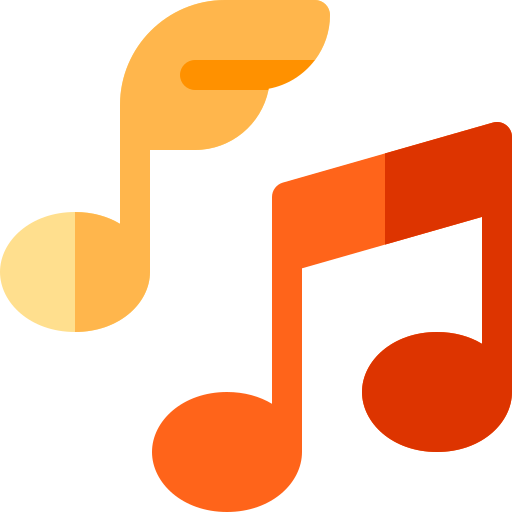
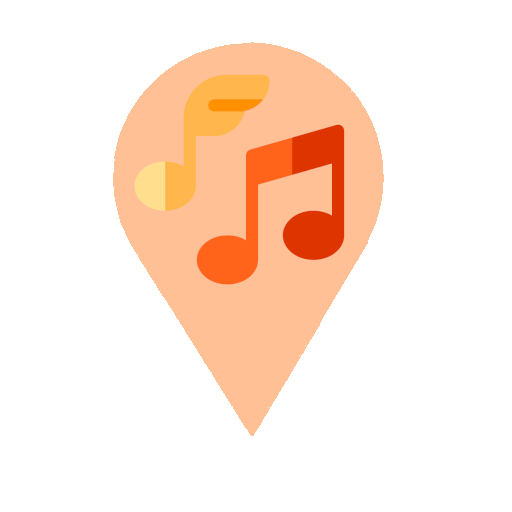
filter ui

diff --git a/main.js b/main.js
@@ -1,14 +1,23 @@
+/*지도 가져오기*/
 let container = document.querySelector('#map'); //지도를 담을 영역의 DOM 레퍼런스
     let options = { //지도를 생성할 때 필요한 기본 옵션
-        center: new kakao.maps.LatLng(33.450701, 126.570667), //지도의 중심좌표.
-        level: 4 //지도의 레벨(확대, 축소 정도)
+        center: new kakao.maps.LatLng(37.2872912604, 126.9910303332), //지도의 중심좌표.
+        level: 3 //지도의 레벨(확대, 축소 정도)
     };
-
+    console.log('지도생성')
 let map = new kakao.maps.Map(container, options); //지도 생성 및 객체 리턴
+
 
  
 const search_bar = document.querySelector(".search-bar");
 const search_btn = document.querySelector(".search-btn");
+
+const math_btn = document.querySelector(".info-math");
+const english_btn = document.querySelector(".info-english");
+const music_btn = document.querySelector(".info-music");
+const art_btn = document.querySelector(".info-art");
+const essay_btn = document.querySelector(".info-essay");
+const etc_btn = document.querySelector(".info-etc");
 
 // 장소 검색 객체를 생성합니다
 let ps = new kakao.maps.services.Places(); 
@@ -17,12 +26,8 @@ const apiUrl = "https://openapi.gg.go.kr/TninsttInstutM?KEY=9aa60a805f9041198337
 const apiUrl2 = "https://openapi.gg.go.kr/TninsttInstutM?KEY=9aa60a805f9041198337d6137cd6c761&type=json&pIndex=2&pSize=1000&";
 const apiUrl3 = "https://openapi.gg.go.kr/TninsttInstutM?KEY=9aa60a805f9041198337d6137cd6c761&type=json&pIndex=3&pSize=1000&";
 
-// 일반 지도와 스카이뷰로 지도 타입을 전환할 수 있는 지도타입 컨트롤을 생성합니다
-let mapTypeControl = new kakao.maps.MapTypeControl();
-map.addControl(mapTypeControl, kakao.maps.ControlPosition.RIGHT);
 
-
-
+/* eventListener */
 search_bar.addEventListener('keyup', (event) =>{
     if(event.keyCode === 13){
         search_btn.click();
@@ -41,18 +46,38 @@ search_btn.addEventListener('click', () => {
     }
 });
 
+math_btn.addEventListener('click', () => {
+    
+
+})
+english_btn.addEventListener('click', () => {
+    
+})
+art_btn.addEventListener('click', () => {
+    
+})
+etc_btn.addEventListener('click', () => {
+    
+})
+essay_btn.addEventListener('click', () => {
+    
+})
+music_btn.addEventListener('click', () => {
+    
+})
+
+
 
 let keywordSearch = (keyword)=> {
     ps.keywordSearch(keyword, keywordSearchCB);
 }
 
 let keywordSearchCB = async (data, status, pagination) => {
+    console.log(data)
     if (status === kakao.maps.services.Status.OK) {
-        
         let center = new kakao.maps.LatLng(data[0].y, data[0].x);
         map.setCenter(center);
-
-
+        
         let facilityData = await getData(data[0].y, data[0].x);
 
         console.log(facilityData);
@@ -79,46 +104,65 @@ let getData = async (Lat, Lng) =>{
     let result3 = await response3.json();
 
     let resultAll = [];
-    console.log(result);
     resultAll = result.TninsttInstutM[1].row.concat(result2.TninsttInstutM[1].row);
     resultAll = resultAll.concat(result3.TninsttInstutM[1].row);
 
     return resultAll;
-    
 }
 
 let drawMaker = (facilityData) => {
-    let image = {
-        "math": "./images/cubes.png",
-        "english": "./images/abc.png",
+    const image = {
+        "math": "./images/math.png",
+        "english": "./images/english.png",
         "music": "./images/music.png",
-        "art": "./images/paint.png",
-        "essay": "./images/open-book.png",
-        "etc": "./images/class.png"
+        "art": "./images/art.png",
+        "essay": "./images/essay.png",
+        "etc": "./images/etc.png"
     }; 
-    let imageSize = new kakao.maps.Size(32, 32);
-    let imageOption = {offset: new kakao.maps.Point(27, 69)};
-
+    const imageSize = new kakao.maps.Size(64, 69);
+    const imageOption = {offset: new kakao.maps.Point(27, 69)};
     let imageSrc;
+
+    let iwContent;
+    let iwContentClass;
+    let iwContentName = facilityData.FACLT_NM;
+    let iwContentAddr = facilityData.REFINE_LOTNO_ADDR;
+    let iwContentNum = facilityData.TELNO;
 
     
     if((facilityData.CRSE_CLASS_NM && facilityData.CRSE_CLASS_NM.includes("수학")) || facilityData.FACLT_NM && facilityData.FACLT_NM.includes("수학")){
         imageSrc = image.math;
+        iwContentClass = "수학";
     }else if((facilityData.CRSE_CLASS_NM && facilityData.CRSE_CLASS_NM.includes("음악", "플룻", "피아노", "첼로")) || facilityData.FACLT_NM && facilityData.FACLT_NM.includes("음악")){
         imageSrc = image.music;
+        iwContentClass = "음악";
     }
     else if((facilityData.CRSE_CLASS_NM && facilityData.CRSE_CLASS_NM.includes("영어", "외국어")) || facilityData.FACLT_NM && facilityData.FACLT_NM.includes("영어", "어학원", "잉글리쉬")){
         imageSrc = image.english;
+        iwContentClass = "영어";
     }
     else if((facilityData.CRSE_CLASS_NM && facilityData.CRSE_CLASS_NM.includes("미술")) || facilityData.FACLT_NM && facilityData.FACLT_NM.includes("미술")){
         imageSrc = image.art;
+        iwContentClass = "미술";
     }   
     else if((facilityData.CRSE_CLASS_NM && facilityData.CRSE_CLASS_NM.includes("논술")) || facilityData.FACLT_NM && facilityData.FACLT_NM.includes("논술")){
         imageSrc = image.essay;
+        iwContentClass = "논술";
     }
     else{
         imageSrc = image.etc;
+        iwContentClass = facilityData.CRSE_CLASS_NM;
     }
+    
+    if(iwContentClass == null){
+        iwContentClass = "-";
+    }
+    if(iwContentNum == null){
+        iwContentNum = "-";
+    }
+    iwContent = iwContentClass + iwContentName + iwContentAddr + iwContentNum;
+
+
 
     let markerImage = new kakao.maps.MarkerImage(imageSrc, imageSize, imageOption);
 
@@ -129,8 +173,8 @@ let drawMaker = (facilityData) => {
         clickable: true,
     });
 
-    let iwContent = '<div>인포윈도 생성</div>'; // 인포윈도우에 표출될 내용으로 HTML 문자열이나 document element가 가능합니다
-    const iwPosition = new kakao.maps.LatLng(facilityData.REFINE_WGS84_LAT, facilityData.REFINE_WGS84_LOGT); //인포윈도우 표시 위치입니다
+    
+    // const iwPosition = new kakao.maps.LatLng(facilityData.REFINE_WGS84_LAT, facilityData.REFINE_WGS84_LOGT); //인포윈도우 표시 위치입니다
 
     let infowindow = new kakao.maps.InfoWindow({
         content : iwContent,

diff --git a/main.html b/main.html
@@ -7,6 +7,7 @@
     <title>Document</title>
     <link rel="stylesheet" href="./main.css">
     <link rel="stylesheet" href="https://cdnjs.cloudflare.com/ajax/libs/font-awesome/5.8.2/css/all.min.css" />
+    <link rel="stylesheet" href="./filter.css">
 </head>
 <body>
     <header>
@@ -28,24 +29,38 @@
         </div>
     </section>
     <section>
-        <!-- <div class="info">
-            <div class="info-imgs">
-                <img src="./images/cubes.png" alt="수학" class="info-imgs-math">
-                <img src="./images/abc.png" alt="영어" class="info-imgs-english">
-                <img src="./images/music.png" alt="음악" class="info-imgs-music">
-                <img src="./images/paint.png" alt="미술" class="info-imgs-art">
-                <img src="./images/open-book.png" alt="논술" class="info-imgs-essay">
-                <img src="./images/class.png" alt="기타" class="info-imgs-etc">
+        <div class="info">
+            <div class="info_1">
+                <span class="info-math">
+                    <img src="./images/pop_math.png" alt="수학" class="info-imgs-math">
+                    <span class="info-names-math">수학</span>
+                </span>
+                <span class="info-english">
+                    <img src="./images/pop_english.png" alt="영어" class="info-imgs-english">
+                    <span class="info-names-english">영어</span>
+                </span>
             </div>
-            <div class="info-names">
-                <div class="info-names-math">수학</div>
-                <div class="info-names-english">영어</div>
-                <div class="info-names-music">음악</div>
-                <div class="info-names-art">미술</div>
-                <div class="info-names-essay">논슬</div>
-                <div class="info-names-etc">기타</div>
+            <div class="info_2">
+                <span class="info-music">
+                    <img src="./images/pop_music.png" alt="음악" class="info-imgs-music">
+                    <span class="info-names-music">음악</span>
+                </span>
+                <span class="info-art">
+                    <img src="./images/pop_art.png" alt="미술" class="info-imgs-art">
+                    <span class="info-names-art">미술</span>
+                </span>
             </div>
-        </div> -->
+            <div class="info_3">
+                <span class="info-essay">
+                    <img src="./images/pop_essay.png" alt="논술" class="info-imgs-essay">
+                    <span class="info-names-essay">논술</span>
+                </span>
+                <span class="info-etc">
+                    <img src="./images/pop_etc.png" alt="기타" class="info-imgs-etc">
+                    <span class="info-names-etc">기타</span>
+                </span>
+            </div>
+        </div>
     </section>
 </body>
 <script type="text/javascript" src="//dapi.kakao.com/v2/maps/sdk.js?appkey=15d6e5c04a32b4ec88698941e1991f4b&libraries=services"></script>

diff --git a/filter.css b/filter.css
@@ -1,0 +1,64 @@
+@font-face {
+  font-family: "IBMPlexSansKR-Regular";
+  src: url("https://cdn.jsdelivr.net/gh/projectnoonnu/noonfonts_20-07@1.0/IBMPlexSansKR-Regular.woff")
+    format("woff");
+  font-weight: normal;
+  font-style: normal;
+}
+.info-math,
+.info-english,
+.info-music,
+.info-art,
+.info-essay,
+.info-etc {
+  display: inline-flex;
+  align-items: center;
+  border-radius: 10px;
+  padding: 1px 3px;
+}
+.info_1,
+.info_2 {
+  margin-bottom: 3px;
+}
+.info-imgs-math,
+.info-imgs-english,
+.info-imgs-music,
+.info-imgs-art,
+.info-imgs-essay,
+.info-imgs-etc {
+  height: 30px;
+  width: 20px;
+}
+.info {
+  display: inline-block;
+  border-radius: 10px;
+  box-shadow: darkgray;
+  position: absolute;
+  bottom: 10px;
+  right: 10px;
+  z-index: 99;
+  font-family: "IBMPlexSansKR-Regular";
+  font-size: 14px;
+}
+.info-art {
+  background-color: #ffafaf;
+}
+.info-music {
+  background-color: #ffc095;
+}
+.info-math {
+  background-color: #adb3ff;
+}
+.info-etc {
+  background-color: #a1ffc7;
+}
+.info-english {
+  background-color: #e58bf4;
+}
+.info-essay {
+  background-color: #81fcfc;
+}
+.info {
+  background-color: rgb(223, 221, 221, 0.7);
+  padding: 10px 10px;
+}
